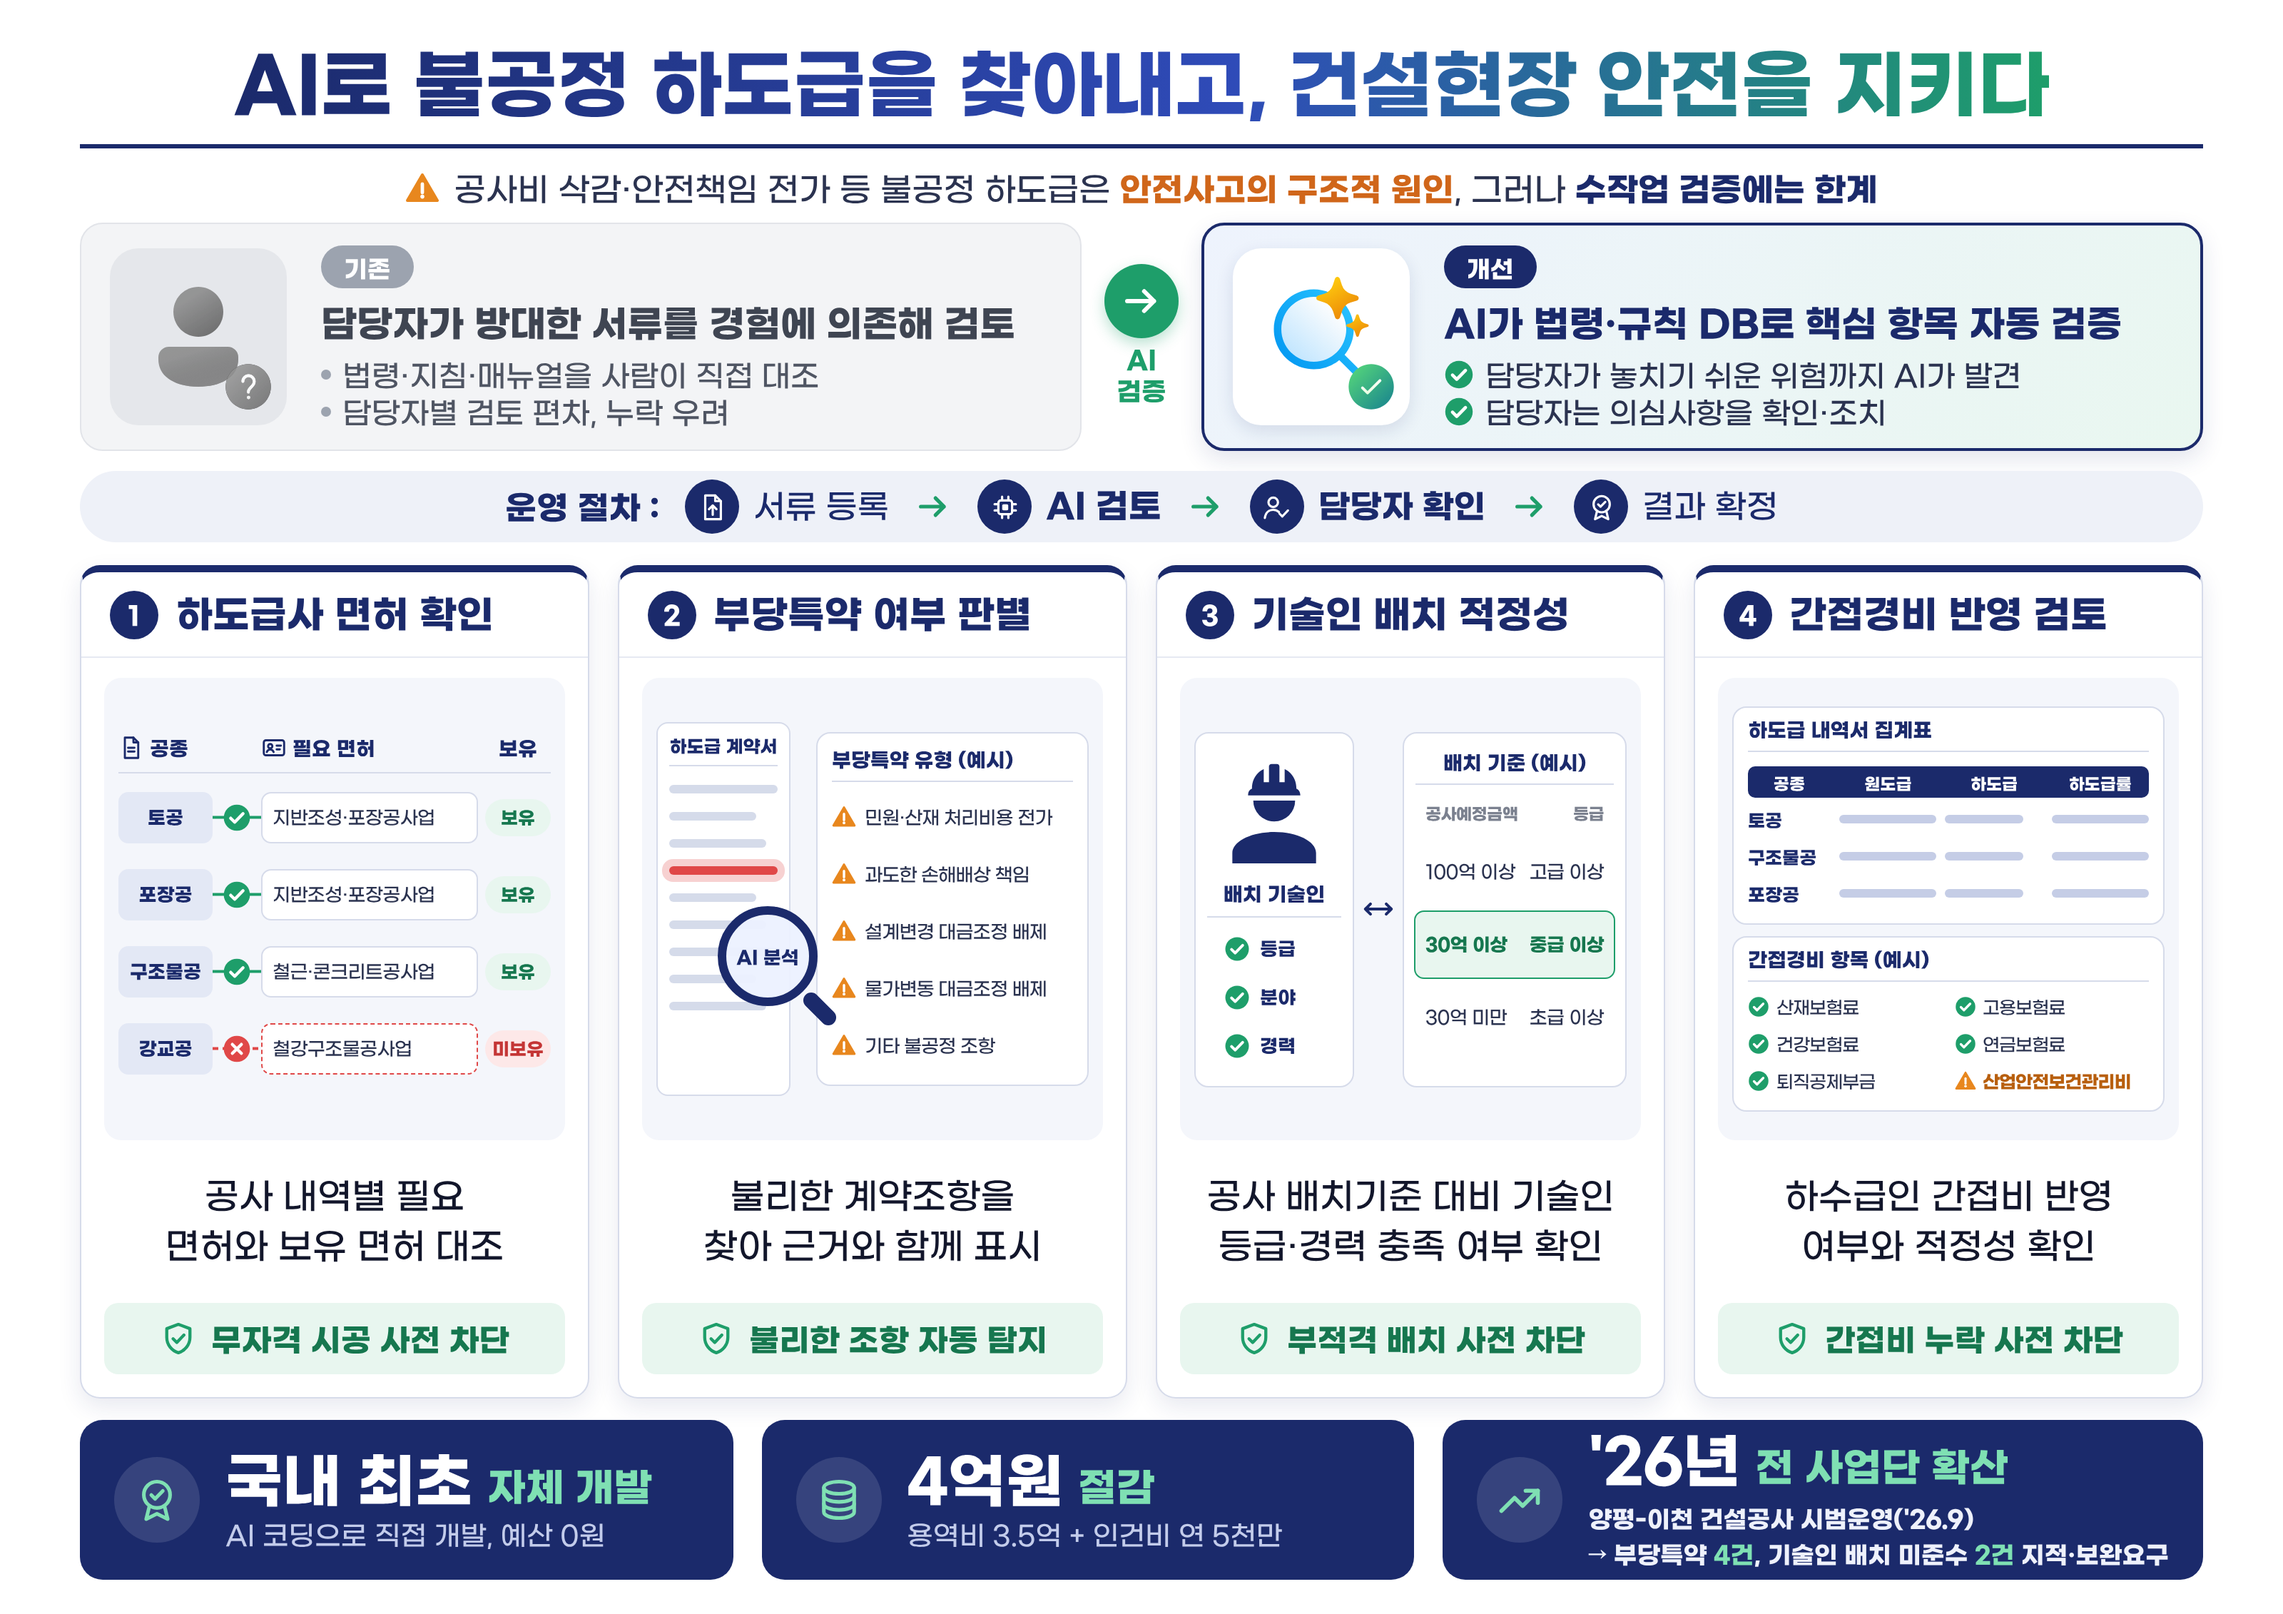
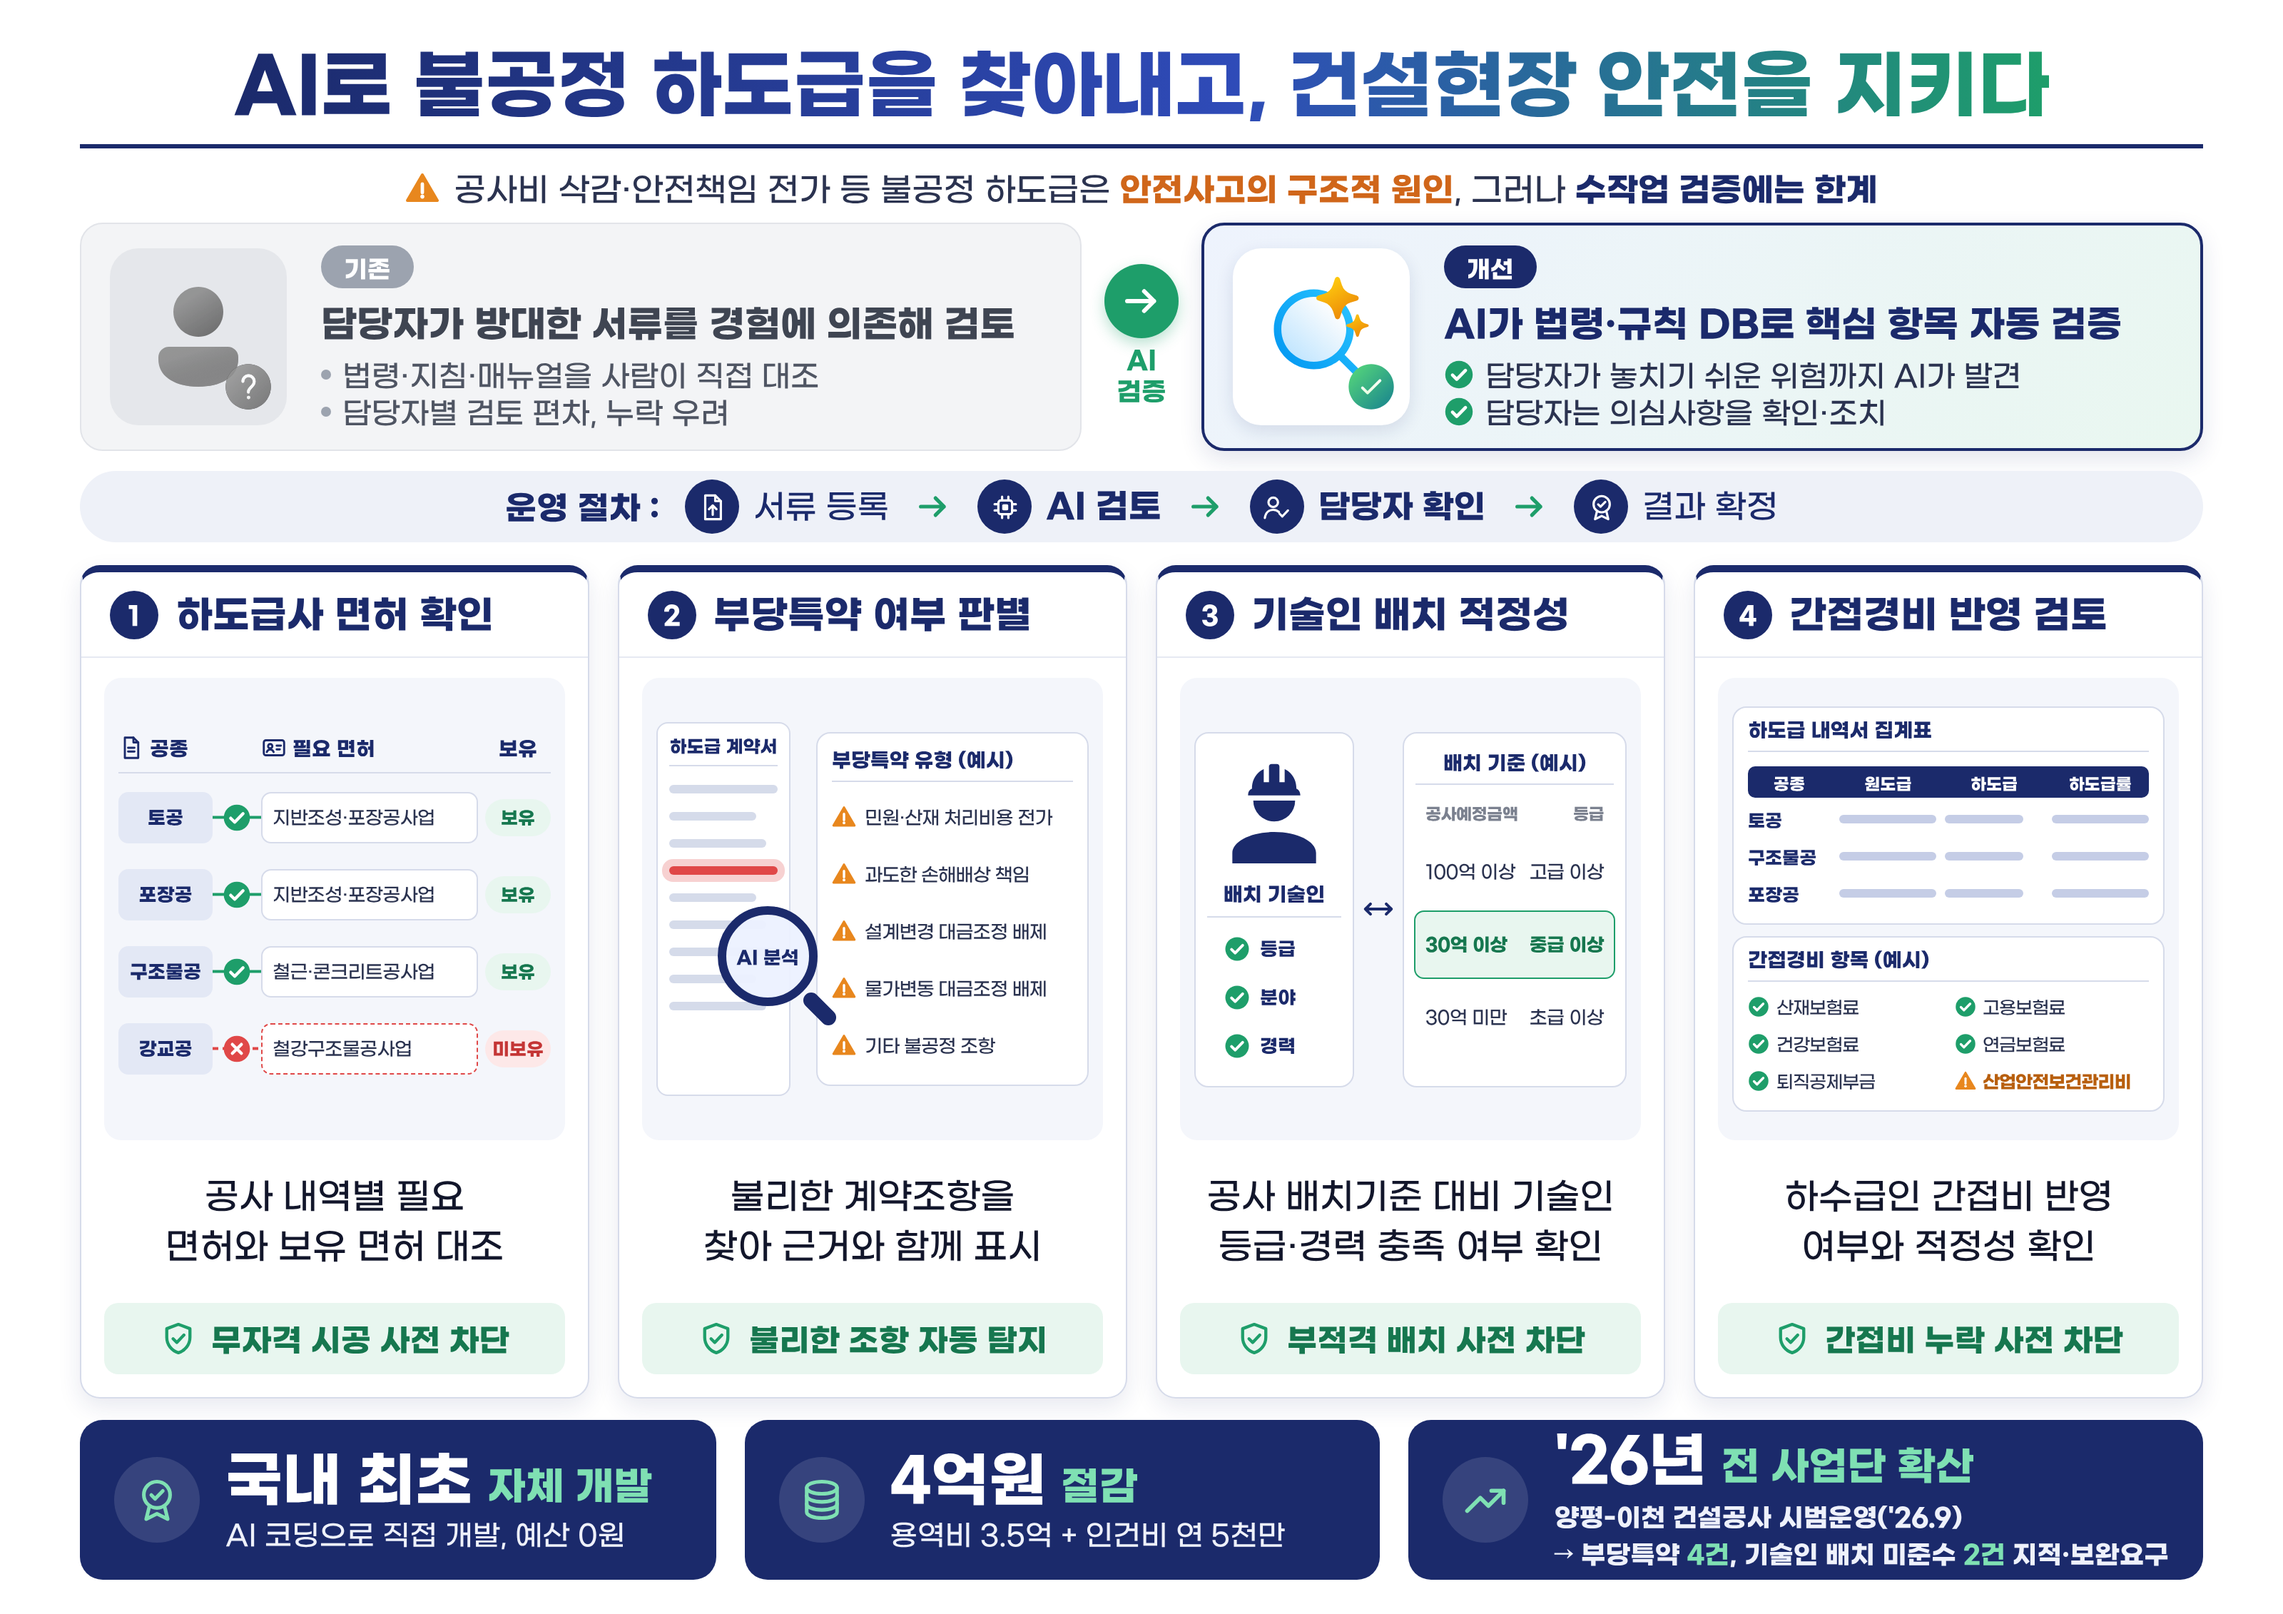
Enlarge stat captions by 1px and unify their color
Claude-Session: https://claude.ai/code/session_01T4PzDp9fMWLNqaWs8CukvF

Changed region(s): [[0.5938, 0.8665, 0.9375, 0.9903], [0.3125, 0.8665, 0.5625, 0.9903], [0.0938, 0.8974, 0.2812, 0.9593]]

diff --git a/templates/contract-platform.css b/templates/contract-platform.css
@@ -26,8 +26,8 @@
   --size-il-title: 14px;
   --size-stat-value: 42px;
   --size-stat-sub: 28px;
-  --size-stat-caption: 19px;
-  --size-stat-detail: 17px;
+  --size-stat-caption: 20px;
+  --size-stat-detail: 18px;
 }
 
 body {
@@ -616,8 +616,8 @@ body {
 }
 .stat-main { font-size: var(--size-stat-value); font-weight: 700; color: #fff; }
 .stat-suffix { font-size: var(--size-stat-sub); font-weight: 700; color: #7fe0b3; }
-.stat-caption { font-size: var(--size-stat-caption); font-weight: 500; color: #c3cceb; }
-/* 세부 실적이 붙는 블록: 캡션 두 줄, 수치는 흰색 강조 */
+.stat-caption { font-size: var(--size-stat-caption); font-weight: 500; color: #eef1fb; }
+/* 세부 실적이 붙는 블록: 캡션 두 줄, 수치는 민트색 강조 */
 .stat-caption.is-detailed {
   display: flex;
   flex-direction: column;
@@ -625,7 +625,6 @@ body {
   margin-top: 2px;
   font-size: var(--size-stat-detail);
   font-weight: 700;
-  color: #eef1fb;
   line-height: 1.15;
   white-space: nowrap;
 }
